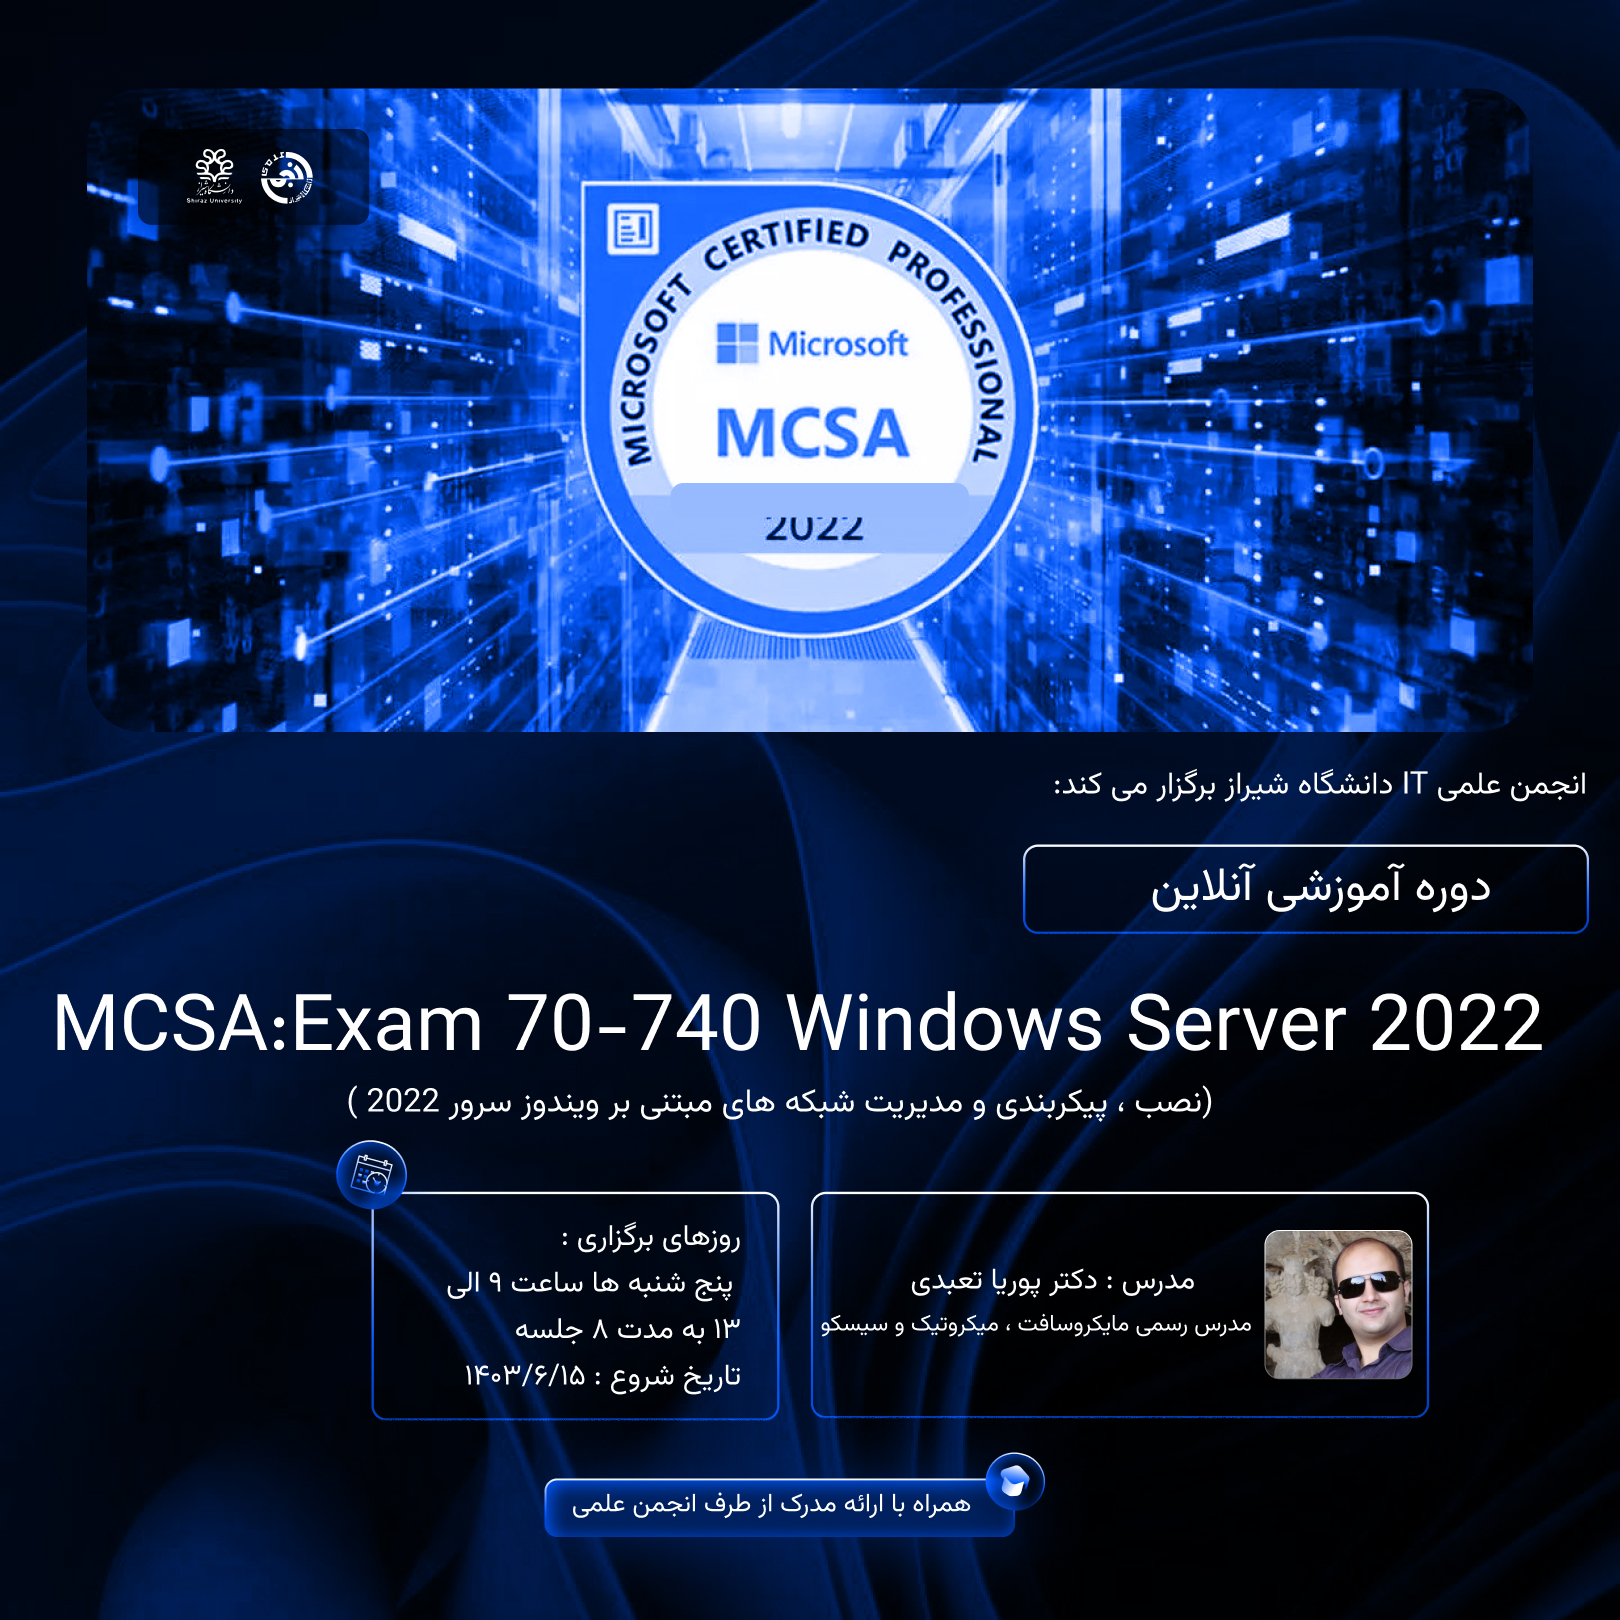
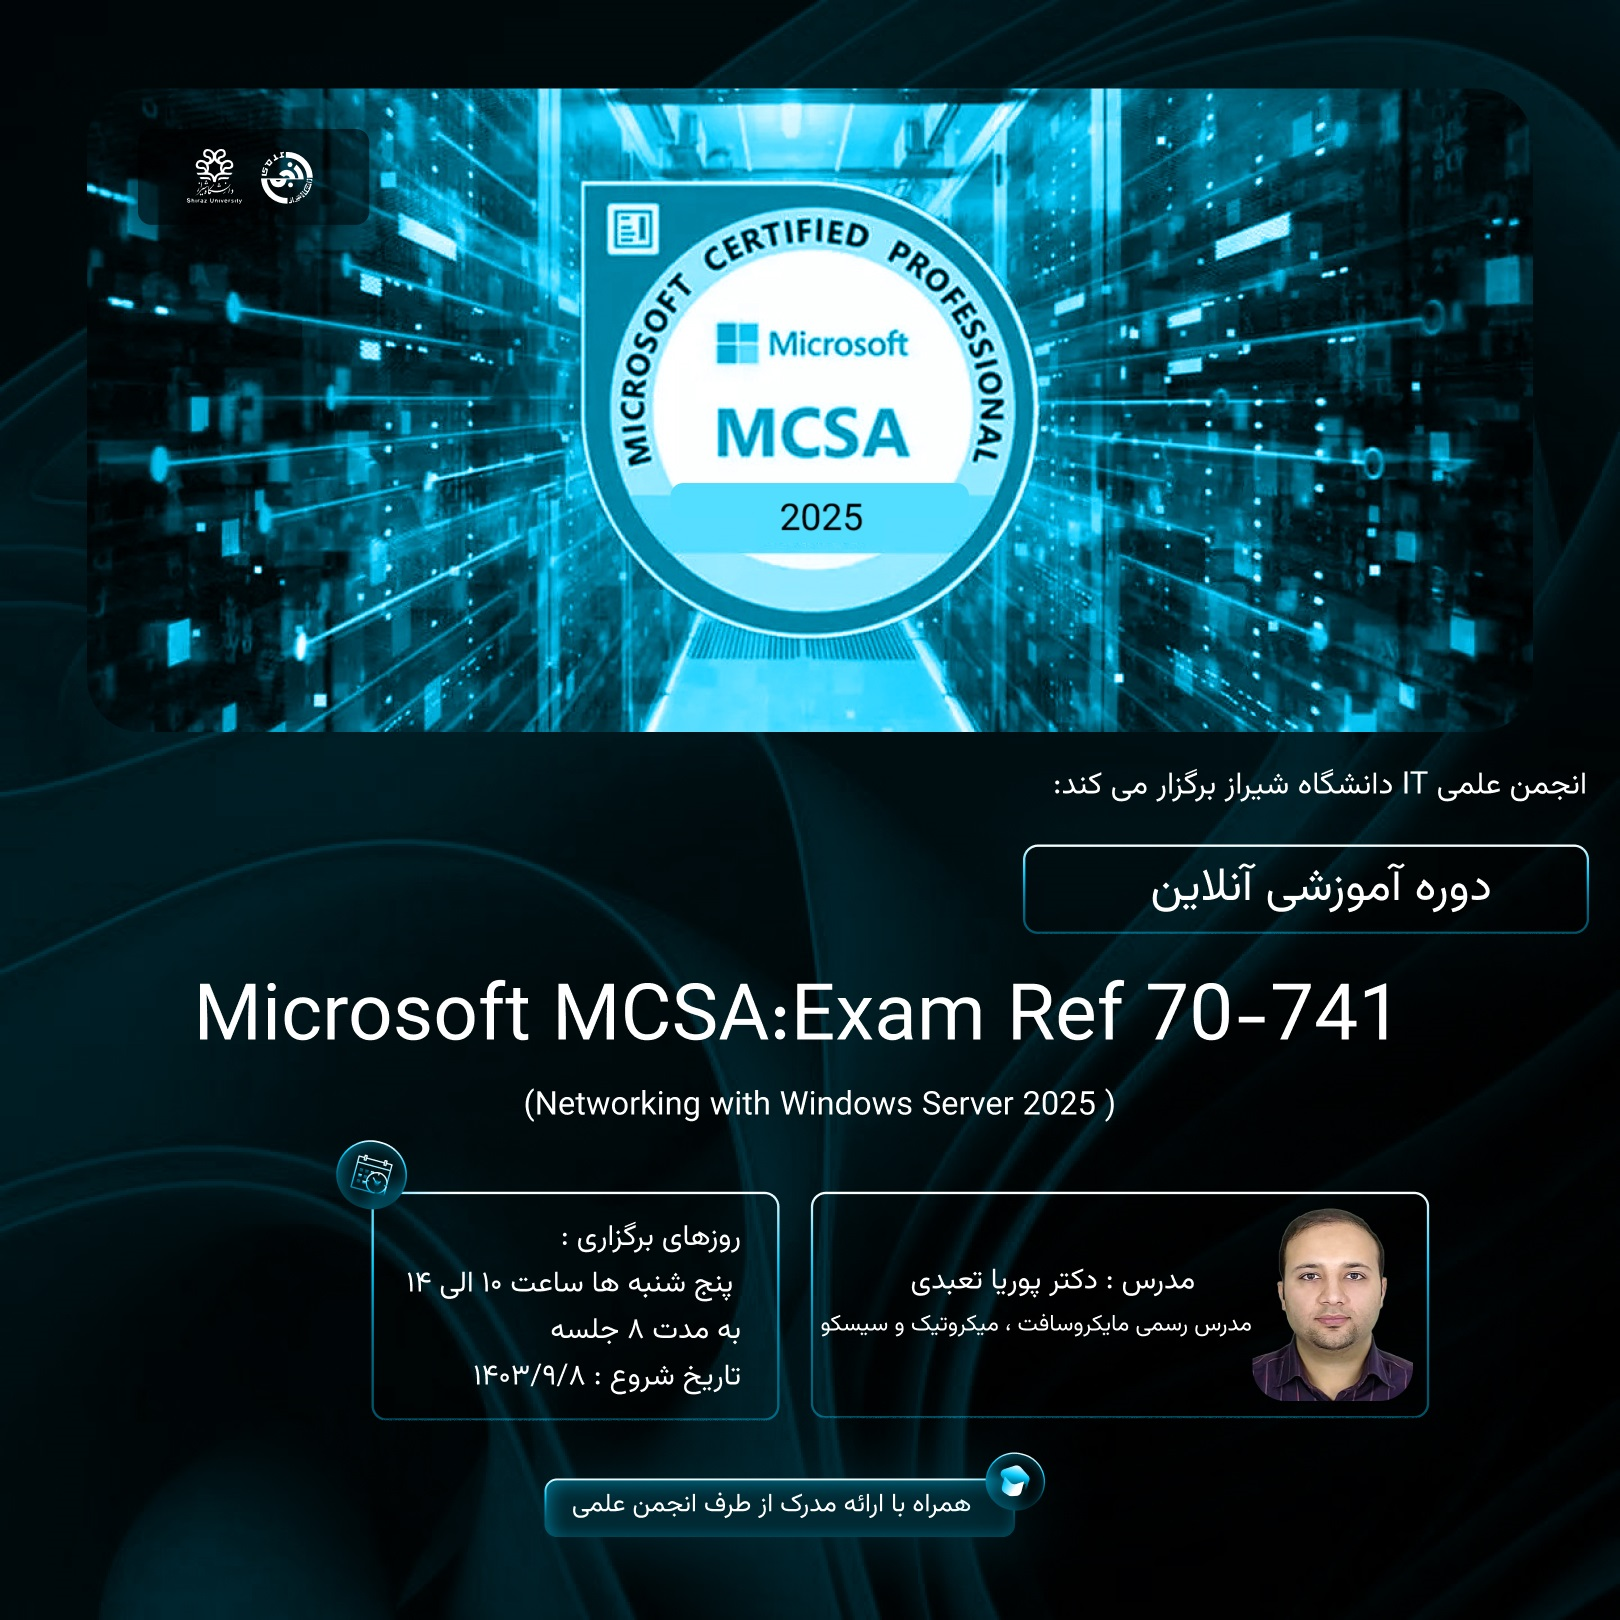
ready for 70-741 course

diff --git a/index.html b/index.html
@@ -63,15 +63,170 @@
                 alt="product image"
               />
             </a>
-            <div class="px-5 pb-5">
+            <div class="px-5 pb-5 flex gap-3 flex-col">
               <a href="#">
                 <h5
                   class="text-center text-xl font-semibold tracking-tight text-gray-900 dark:text-white"
                 >
-                  دوره آموزشی MCSA:70-740
+                  دوره آموزشی MCSA:70-741
                 </h5>
               </a>
               <div class="mt-2 flex items-center justify-center">
+                <button
+                  data-modal-target="Headline-modal"
+                  data-modal-toggle="Headline-modal"
+                  class="block w-full mx-2 md:w-auto text-white bg-blue-700 hover:bg-blue-800 focus:ring-4 focus:outline-none focus:ring-blue-300 font-medium rounded-lg text-sm px-5 py-2.5 text-center dark:bg-blue-600 dark:hover:bg-blue-700 dark:focus:ring-blue-800"
+                  type="button"
+                >
+                  مشاهده سرفصل ها
+                </button>
+                <div
+                  id="Headline-modal"
+                  tabindex="-1"
+                  class="fixed top-0 left-0 right-0 z-50 hidden w-full p-4 overflow-x-hidden overflow-y-auto md:inset-0 h-[calc(100%-1rem)] max-h-full"
+                >
+                  <div class="relative w-full max-w-lg max-h-full">
+                    <div
+                      class="relative bg-white rounded-lg shadow dark:bg-gray-700"
+                    >
+                      <div
+                        class="flex items-center justify-between p-4 md:p-5 border-b rounded-t dark:border-gray-600"
+                      >
+                        <h3
+                          class="text-xl font-medium text-gray-900 dark:text-white"
+                        >
+                          سرفصل ها
+                        </h3>
+                        <button
+                          type="button"
+                          class="text-gray-400 bg-transparent hover:bg-gray-200 hover:text-gray-900 rounded-lg text-sm w-8 h-8 ms-auto inline-flex justify-center items-center dark:hover:bg-gray-600 dark:hover:text-white"
+                          data-modal-hide="Headline-modal"
+                        >
+                          <svg
+                            class="w-3 h-3"
+                            aria-hidden="true"
+                            xmlns="http://www.w3.org/2000/svg"
+                            fill="none"
+                            viewBox="0 0 14 14"
+                          >
+                            <path
+                              stroke="currentColor"
+                              stroke-linecap="round"
+                              stroke-linejoin="round"
+                              stroke-width="2"
+                              d="m1 1 6 6m0 0 6 6M7 7l6-6M7 7l-6 6"
+                            />
+                          </svg>
+                          <span class="sr-only">Close modal</span>
+                        </button>
+                      </div>
+                      <div class="p-4 md:p-5 space-y-4">
+                        <p
+                          class="text-center text-wrap whitespace-pre-line break-all text-xl font-semibold tracking-tight text-gray-900 dark:text-white"
+                        >
+                          Course Outline Module 1: Planning and implementing an
+                          IPv4 network This module explains how to plan and
+                          implement an IPv4 addressing scheme to support
+                          organizational needs. This module also explains how
+                          .to use fundamental networking tools and techniques to
+                          configure and troubleshoot IPv4-based networks Lessons
+                          Planning IPv4 addressing Configuring an IPv4 host
+                          Managing and troubleshooting IPv4 network connectivity
+                          Lab : Planning an IPv4 network Planning the IPv4
+                          address assignments Lab : Implementing and
+                          troubleshooting an IPv4 network Verifying the IPv4
+                          communication Troubleshooting IPv4 Module 2:
+                          Implementing DHCP .This module explains how to plan
+                          and implement DHCP to support the IPv4 infrastructure
+                          Lessons Overview of the DHCP server role Deploying
+                          DHCP Managing and troubleshooting DHCP Lab :
+                          Implementing DHCP Planning the DHCP server
+                          implementation Implementing the DHCP configuration
+                          Validating the DHCP implementation Module 3:
+                          Implementing IPv6 .This module explains how to
+                          implement IPv6, and how to integrate IPv6 and IPv4
+                          networks Lessons Overview of IPv6 addressing
+                          Configuring an IPv6 host Implementing IPv6 and IPvi
+                          coexistence Transitioning from IPvi to IPvG Lab :
+                          Configuring and evaluating IPvG transition
+                          technologles Reviewing the default IPv6 configuration
+                          Implementing DHCPvG Configuring network integration by
+                          using ISATAP Configuring native IPv6 connectivity
+                          Canfiguring 6to4 connectivity Module 4: Implementing
+                          DNS .This module explains how to install, configure,
+                          and troubleshoot DNS within the organization's network
+                          Lessons Implementing DNS servers Configuring zones in
+                          DNS Configuring name resolution between DNS zones
+                          (Configuring DNS integration with Active Directory
+                          Domain Services (AD DS Configuring advanced DNS
+                          settings Lab : Planning and implementing name
+                          resolution by using DNS Planning DNS name resolution
+                          Implementing DNS servers and zones Lab : Integrating
+                          DNS with AD DS Integrating DNS with AD DS Lab :
+                          Configuring advanced DNS settings Configuring DNS
+                          policies Validating the DNS implementation
+                          Troubleshooting DNS Module 5: Implementing and
+                          managing IPAM This module explains how to implement
+                          and manage the IPAM feature in Windows Server 2016.
+                          This module also explains how to use IPAM to .manage
+                          services such as DHCP and DNS Lessons Overview of IPAM
+                          Deploying IPAM Managing IP address spaces by using
+                          IPAM Lab : Implementing IPAM Installing the IPAM
+                          Server feature Provisioning the IPAM Server Managing
+                          IP address spaces by using IPAM Module 6: Remote
+                          access in Windows Server 2016 .This module explains
+                          how to plan for remote access in Windows Server 2016
+                          and how to implement Web Application Proxy Lessons
+                          Overview of remate access Implementing Web Application
+                          Proxy Lab : Implementing Web Application Proxy
+                          Implementing Web Application Proxy Validating the Web
+                          Application Praky deployment Module 7: Implementing
+                          DirectAccess .This module explains how to implement
+                          and manage DirectAccess in Windows Server 2016 Lessons
+                          Overview of DirectAccess Implementing DirectAccess by
+                          using the Getting Started Wizard Implementing and
+                          managing an advanced DirectAccess infrastructure Lab :
+                          Implementing DirectAccess by using the Getting Started
+                          Wizard Verifying readiness for a DirectAccess
+                          deployment Configuring DirectAccess Validating the
+                          DirectAccess deployment Lab : Deploying an advanced
+                          DirectAccess solution Preparing the environment fur
+                          DirectAccess Implementing the advanced DirectAlccess
+                          infrastructure Validating the DirectAccess deployment
+                          Module 8: Implementing VPNs This module exxplains how
+                          to implement and manage remote access in Windows
+                          Server 2016 by using VPNs Lessons Planning VPNs
+                          Implementing VPNs Lab : Implementing a VPN
+                          Implementing a VPN Validating the VPN deployment
+                          Troubleshooting VPN access Module 9: Implementing
+                          networking for branch offices This module explains how
+                          to implement network services for branch offices
+                          Lessons Networking features and considerations for
+                          branch offices Implementing Distributed File System
+                          (DPS) for branch offices Implementing BranchCache for
+                          branch offices Lab : Implementing DFS for branch
+                          offices Implementing DFS Validating the deployment Lab
+                          : Implementing BranchCache Implementing BranchCache
+                          Validating the deployment Module 10: Configuring
+                          advanced networking features This module explains how
+                          to implement an advanced networking
+                          infrastructure.Lessons Overview of high performance
+                          networking features Configuring advanced Microsoft
+                          Hyper-V networking feabures Lab : Configuring advanced
+                          Hyper-V networking features Creating and using Hyper-V
+                          virtual switches Configuring and using the advanced
+                          festures of a virtual switch Module 11: Implementing
+                          Software Defined Networking This module explains how
+                          to implement software defined networking.Lessons
+                          Overview of Software Defined Networking Implementing
+                          network virtualization Implementing Netwark Controller
+                          Lab : Deploying Network Controller Preparing to deplay
+                          Network Controller Deploying Network Cantroller
+                        </p>
+                      </div>
+                    </div>
+                  </div>
+                </div>
                 <button
                   data-modal-target="medium-modal"
                   data-modal-toggle="medium-modal"
@@ -122,7 +277,37 @@
                       </button>
                     </div>
                     <div class="p-4 md:p-5 space-y-4">
-                      <div class="evand-widget evand-widget-event-registration" data-event-slug="دوره-آموزشی-آنلاین-mcsa-exam-70-740-3310" data-setting=""><script>(function(){if(!document.getElementById('evand-widget-event-registration')){var t=document.createElement("script");t.type="text/javascript";t.async=!0;t.src=("https:"==document.location.protocol?"https://":"http://")+"widgets.evand.com/event-registration.js?load=1";t.setAttribute('id','evand-widget-event-registration');var e=document.getElementsByTagName("script")[0];e.parentNode.insertBefore(t,e);}})();</script></div>
+                      <div
+                        class="evand-widget evand-widget-event-registration"
+                        data-event-slug="دوره-آموزشی-آنلاین-mcsa2025-exam-70-741-3006528"
+                        data-setting=""
+                      >
+                        <script>
+                          (function () {
+                            if (
+                              !document.getElementById(
+                                "evand-widget-event-registration"
+                              )
+                            ) {
+                              var t = document.createElement("script");
+                              t.type = "text/javascript";
+                              t.async = !0;
+                              t.src =
+                                ("https:" == document.location.protocol
+                                  ? "https://"
+                                  : "http://") +
+                                "widgets.evand.com/event-registration.js?load=1";
+                              t.setAttribute(
+                                "id",
+                                "evand-widget-event-registration"
+                              );
+                              var e =
+                                document.getElementsByTagName("script")[0];
+                              e.parentNode.insertBefore(t, e);
+                            }
+                          })();
+                        </script>
+                      </div>
                     </div>
                   </div>
                 </div>
@@ -380,16 +565,18 @@
           />
           <span
             class="block text-sm text-gray-500 sm:text-center dark:text-gray-400"
-            style="direction: ltr;">© 2024
+            style="direction: ltr"
+            >© 2024
             <a href="https://itshirazu.ir/" class="hover:underline"
               >Shiraz University IT Scientific Associaton</a
             >
-            <br>
+            <br />
             Designed & Developed By:
             <a
               class="hover:underline"
               href="https://mtabatabaeifard.ir"
-              target="_blank"style="direction: ltr;"
+              target="_blank"
+              style="direction: ltr"
               >MohammadHossein Tabatabaeifard.</a
             >
           </span>
